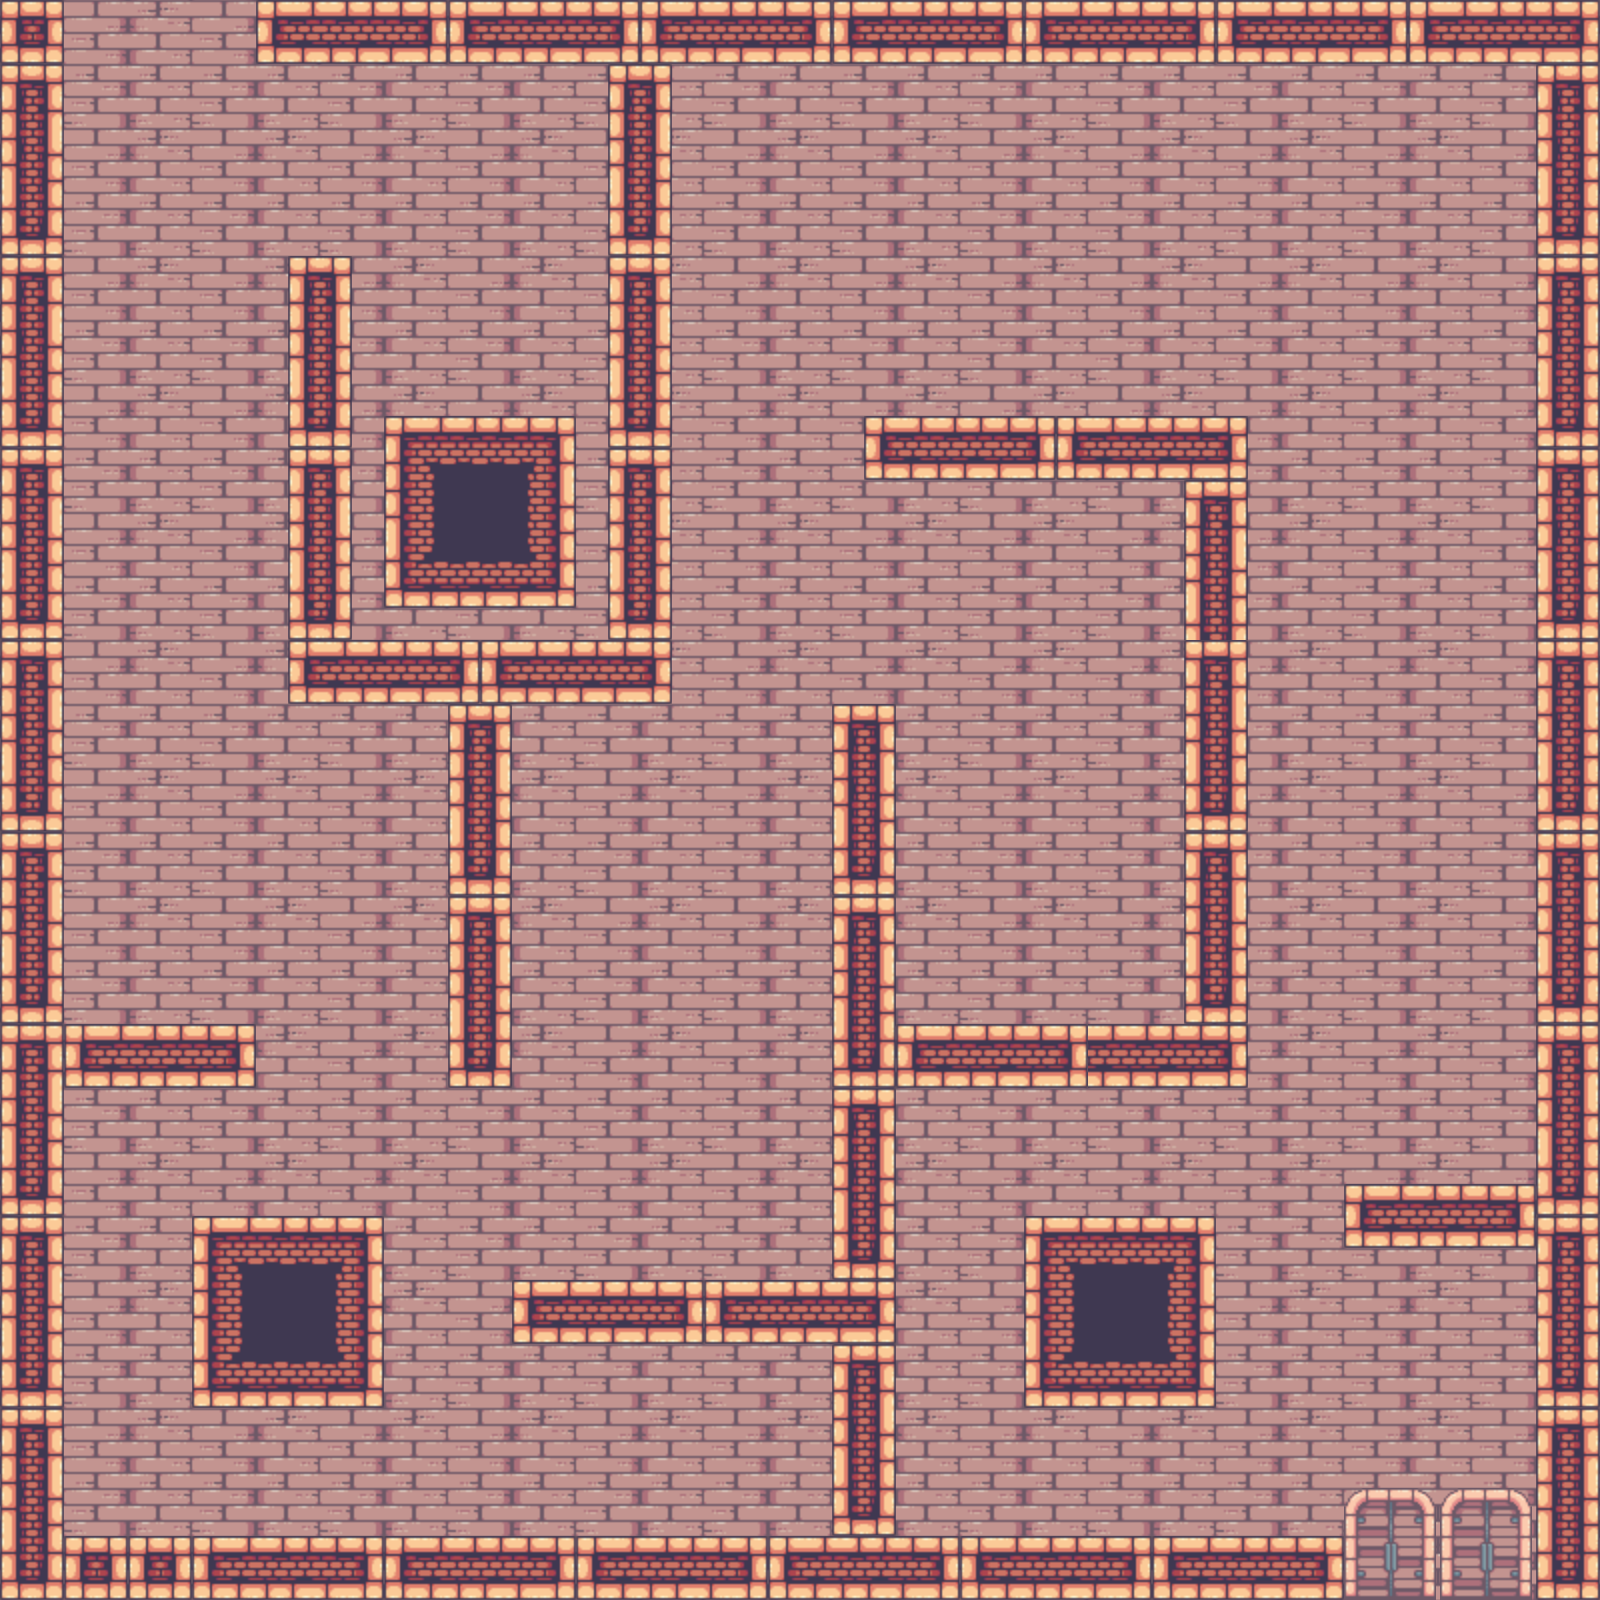
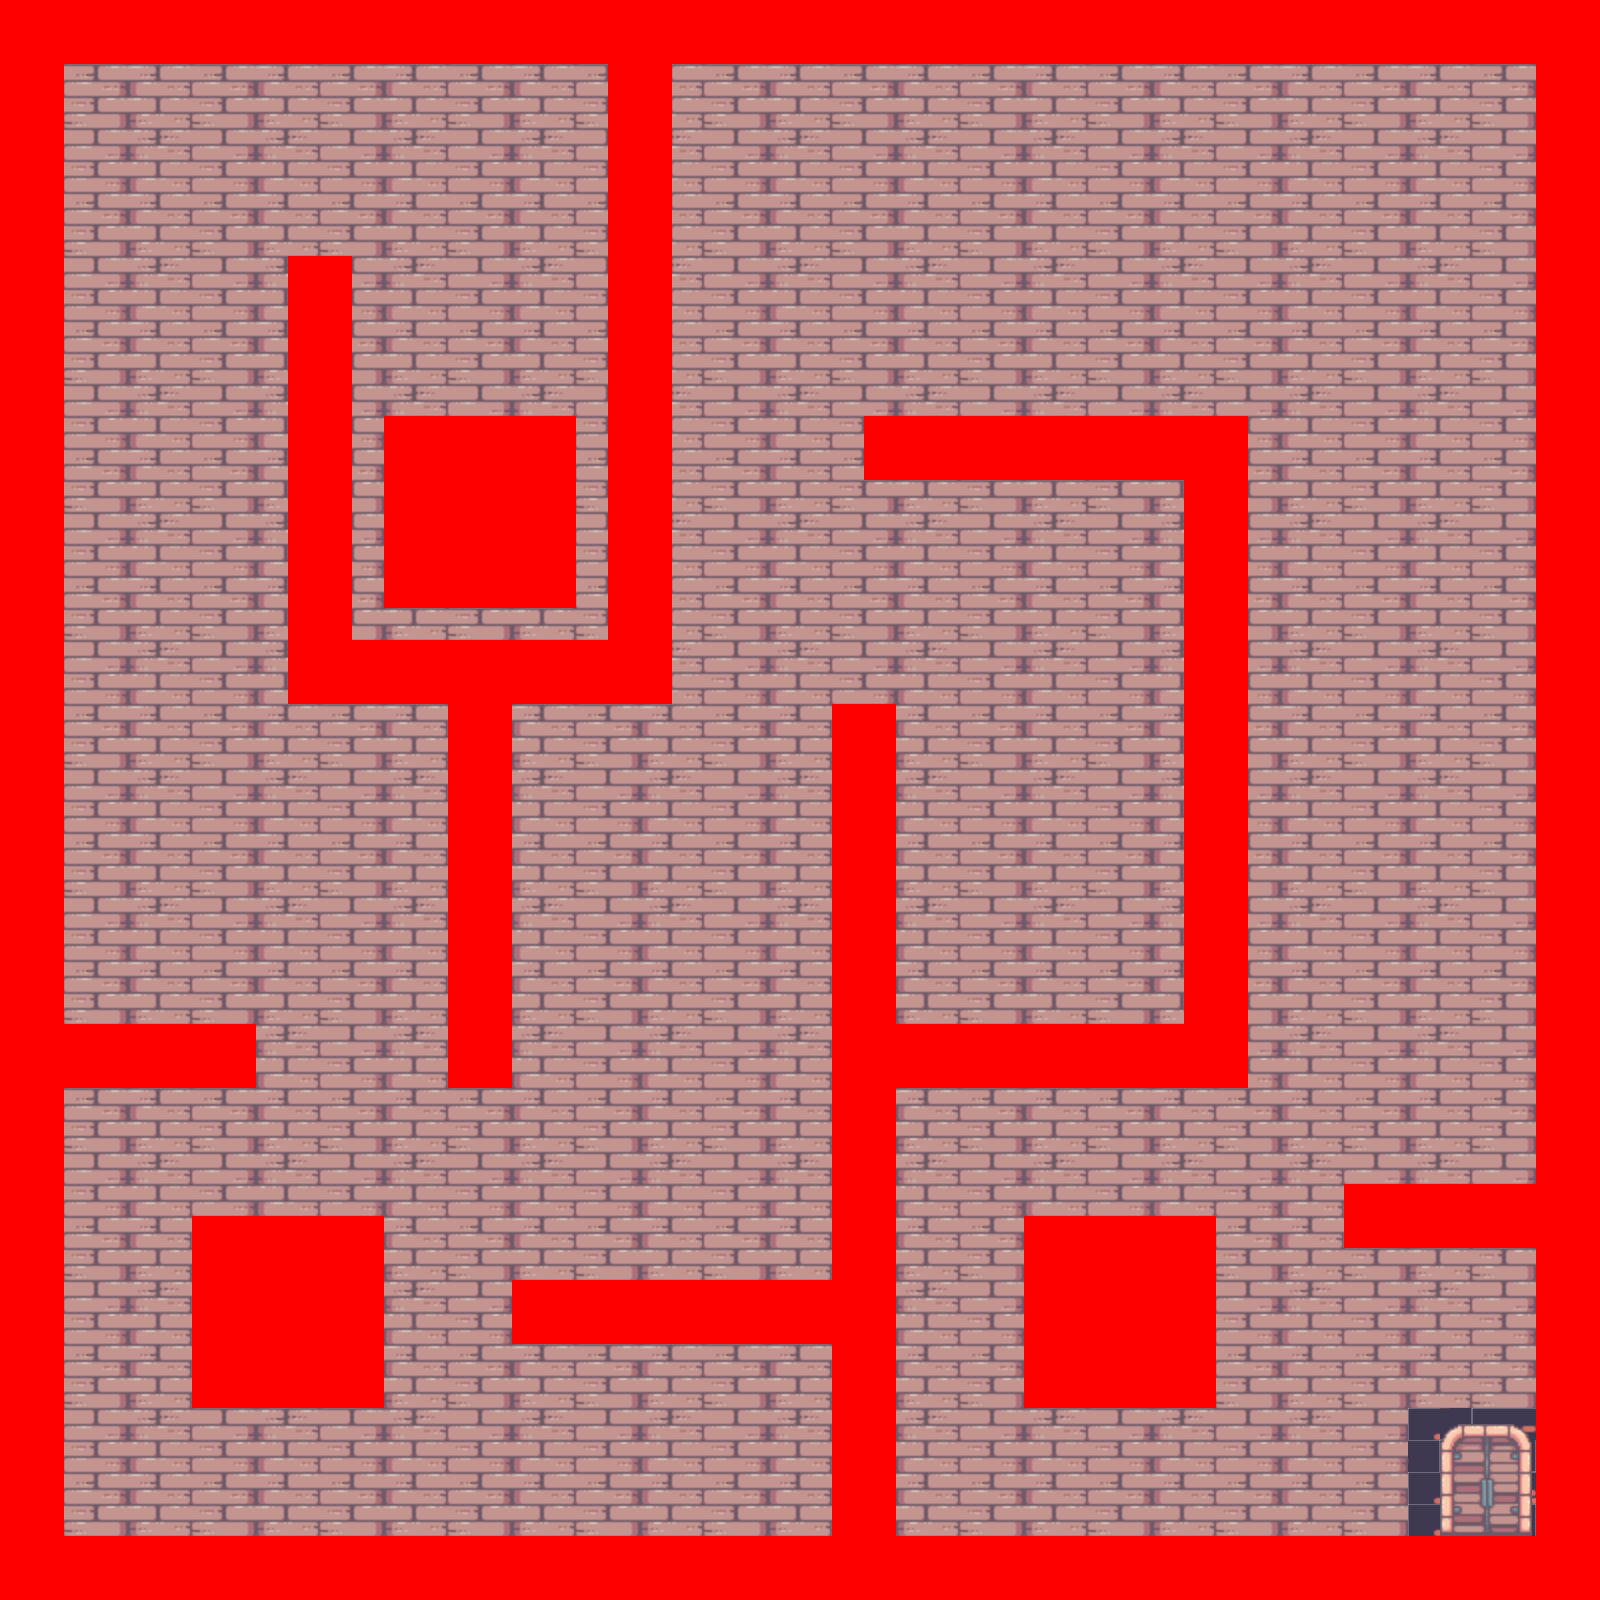
completed outline, getting everything up to date before I revamp and really start making the game

diff --git a/img/collisions.js b/img/collisions.js
@@ -1,0 +1,1 @@
+const collisions = [248, 248, 248, 248, 248, 248, 248, 248, 248, 248, 248, 248, 248, 248, 248, 248, 248, 248, 248, 248, 248, 0, 0, 248, 0, 0, 0, 0, 0, 0, 0, 248, 0, 0, 0, 0, 0, 0, 0, 248, 248, 0, 0, 248, 0, 0, 0, 0, 0, 0, 0, 248, 0, 0, 0, 0, 0, 0, 0, 248, 248, 0, 0, 248, 0, 0, 0, 248, 0, 0, 0, 248, 0, 0, 0, 248, 0, 0, 0, 248, 248, 0, 0, 248, 0, 0, 0, 248, 0, 0, 0, 248, 0, 0, 0, 248, 0, 0, 0, 248, 248, 0, 0, 248, 0, 0, 0, 248, 0, 0, 0, 248, 0, 0, 0, 248, 0, 0, 0, 248, 248, 0, 0, 248, 0, 0, 0, 248, 0, 0, 0, 248, 0, 0, 0, 248, 0, 0, 0, 248, 248, 0, 0, 248, 0, 0, 0, 248, 0, 0, 0, 248, 0, 0, 0, 248, 0, 0, 0, 248, 248, 0, 0, 248, 0, 0, 0, 248, 0, 0, 0, 248, 0, 0, 0, 248, 0, 0, 0, 248, 248, 0, 0, 0, 0, 0, 0, 248, 0, 0, 0, 0, 0, 0, 0, 248, 0, 0, 0, 248, 248, 0, 0, 0, 0, 0, 0, 248, 0, 0, 0, 0, 0, 0, 0, 248, 0, 0, 0, 248, 248, 248, 248, 248, 248, 248, 248, 248, 248, 248, 248, 248, 248, 248, 248, 248, 248, 248, 248, 248]

diff --git a/index.js b/index.js
@@ -6,15 +6,25 @@ canvas.height = 720
 
 const character = newImage('./img/player.png')
 let direction = null;
-let x = 100;
-let y = 250;
+let x = 150;
+let y = 600;
 
-const map1 = newImage('./img/map1.png')
-let position = null;
+const map1 = new Image()
+map1.src = './img/sdsuMazeGameMap.png'
+
+map1.onload = () => {
+    context.drawImage(map1, 0, 0,)
+    boundary.forEach ( Perimeter => {
+        Perimeter.create()
+    })
+}
+
+ // function that calls true or false for locations of no go zones before I change it
+
 
 setInterval (function moveCharacter (){
     if(direction === 'west') {
-    x = x - 1
+        x = x - 1
     }
     if(direction === 'north') {
     y = y + 1
@@ -28,6 +38,8 @@ setInterval (function moveCharacter (){
     character.style.left = x + 'px'
     character.style.bottom = y + 'px'
 }, 1)
+
+
 
 document.addEventListener ('keydown', function (e) {
     if(e.repeat) return;

diff --git a/timer.js b/timer.js
@@ -1,0 +1,17 @@
+var timeLeft = 30;
+var elem = document.getElementById('Timer');
+
+var timerId = setInterval(countdown, 1000);
+
+function countdown() {
+  if (timeLeft == 0) {
+    clearTimeout(timerId);
+   // doSomething(); lose screen if timer runs out
+  } else {
+    elem.innerHTML = timeLeft + ' seconds remaining';
+    timeLeft--;
+  }
+}
+
+
+//

diff --git a/index.html b/index.html
@@ -8,6 +8,10 @@
 </head>
 <body>
     <canvas></canvas>
+    <div id="Timer"></div>
+    <div id="Score">Score: 0</div>
+    <script src="timer.js"></script>
+    <script src="img/collisions.js"></script>
     <script src="move.js"></script>
     <script src="newImage.js"></script>
     <script src="index.js"></script>

diff --git a/gameAssets/tiled/maps/SDSU mapset.tsx b/gameAssets/tiled/maps/SDSU mapset.tsx
@@ -1,0 +1,4 @@
+<?xml version="1.0" encoding="UTF-8"?>
+<tileset version="1.8" tiledversion="1.8.0" name="SDSU mapset" tilewidth="32" tileheight="32" tilecount="988" columns="38">
+ <image source="../assets/Terrain (64x64).png" width="1216" height="832"/>
+</tileset>

diff --git a/gameAssets/tiled/maps/SDSUMapSet.tsx b/gameAssets/tiled/maps/SDSUMapSet.tsx
@@ -1,0 +1,4 @@
+<?xml version="1.0" encoding="UTF-8"?>
+<tileset version="1.8" tiledversion="1.8.0" name="SDSUMapSet" tilewidth="16" tileheight="16" tilecount="3952" columns="76">
+ <image source="../assets/Terrain (64x64).png" width="1216" height="832"/>
+</tileset>

diff --git a/gameAssets/tiled/maps/sdsu mapset.tsx b/gameAssets/tiled/maps/sdsu mapset.tsx
@@ -1,0 +1,4 @@
+<?xml version="1.0" encoding="UTF-8"?>
+<tileset version="1.8" tiledversion="1.8.0" name="sdsu mapset" tilewidth="64" tileheight="64" tilecount="247" columns="19">
+ <image source="../assets/Terrain (64x64).png" width="1216" height="832"/>
+</tileset>

diff --git a/gameAssets/tiled/maps/collision.tsx b/gameAssets/tiled/maps/collision.tsx
@@ -1,0 +1,4 @@
+<?xml version="1.0" encoding="UTF-8"?>
+<tileset version="1.8" tiledversion="1.8.0" name="collision" tilewidth="64" tileheight="64" tilecount="1" columns="1">
+ <image source="../assets/collision.png" width="64" height="64"/>
+</tileset>

diff --git a/gameAssets/tiled/maps/door.tsx b/gameAssets/tiled/maps/door.tsx
@@ -1,0 +1,4 @@
+<?xml version="1.0" encoding="UTF-8"?>
+<tileset version="1.8" tiledversion="1.8.0" name="door" tilewidth="92" tileheight="112" tilecount="1" columns="1">
+ <image source="../assets/door.png" width="92" height="112"/>
+</tileset>

diff --git a/move.js b/move.js
@@ -4,6 +4,7 @@ function move(element) {
     function moveToChoordinates(left, bottom) {
         element.style.position = left + 'px'
         element.style.bottom = bottom + 'px'
+        
     }
 
     return {
